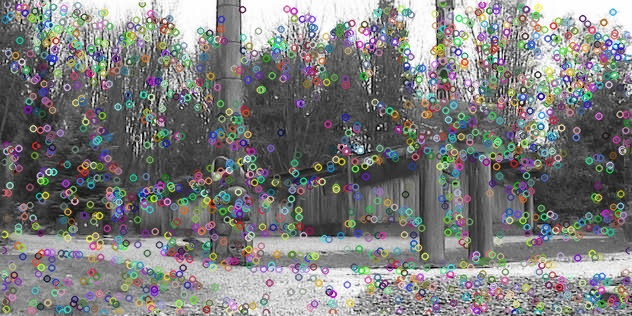
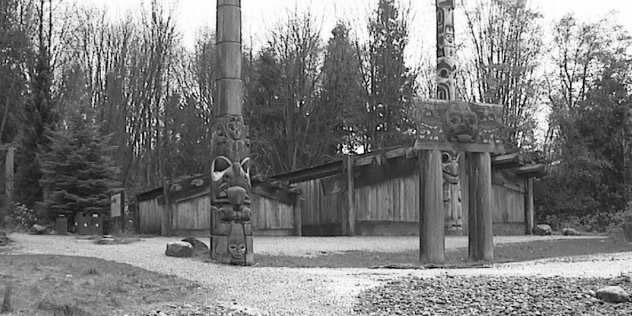
initialize sift

diff --git a/sift/main.py b/sift/main.py
@@ -3,13 +3,43 @@ import numpy as np
 import sys
 import os
 
+def get_sift_features(img, sift):
+    kp, des = sift.detectAndCompute(img, None)
+    return list(zip(kp, des))
+
+def distance(d1, d2):
+    return np.linalg.norm(d1 - d2)
+
 img_dir = sys.argv[1]
+query_dir = sys.argv[2]
 
 img = cv2.imread(img_dir)
-gray= cv2.cvtColor(img,cv2.COLOR_BGR2GRAY)
+img = cv2.cvtColor(img, cv2.COLOR_BGR2GRAY)
+
+query = cv2.imread(query_dir)
+query = cv2.cvtColor(query, cv2.COLOR_BGR2GRAY)
 
 sift = cv2.xfeatures2d.SIFT_create()
-kp = sift.detect(gray,None)
-cv2.drawKeypoints(gray, kp, img)
 
-cv2.imwrite('output/sift_{}'.format(os.path.basename(img_dir)),img)
+img_features = get_sift_features(img, sift)
+query_features = get_sift_features(query, sift)
+
+query_kps = []
+img_kps = []
+for query_kp, query_des in query_features:
+    distances = []
+    for img_kp, img_des in img_features:
+        distances.append((query_kp, img_kp, distance(query_des, img_des)))
+    distances = sorted(distances, key=lambda x: x[2])
+    query_kp, img_kp, d = distances[0]
+    query_kps.append(query_kp)
+    img_kps.append(img_kp)    
+
+img = cv2.drawKeypoints(img, img_kps, img)
+query = cv2.drawKeypoints(query, query_kps, query)
+cv2.imshow('Result', img)
+cv2.imshow('Query', query)
+# cv2.imwrite('output/sift_{}'.format(os.path.basename(img_dir)),img)
+
+cv2.waitKey(0)
+cv2.destroyAllWindows()
